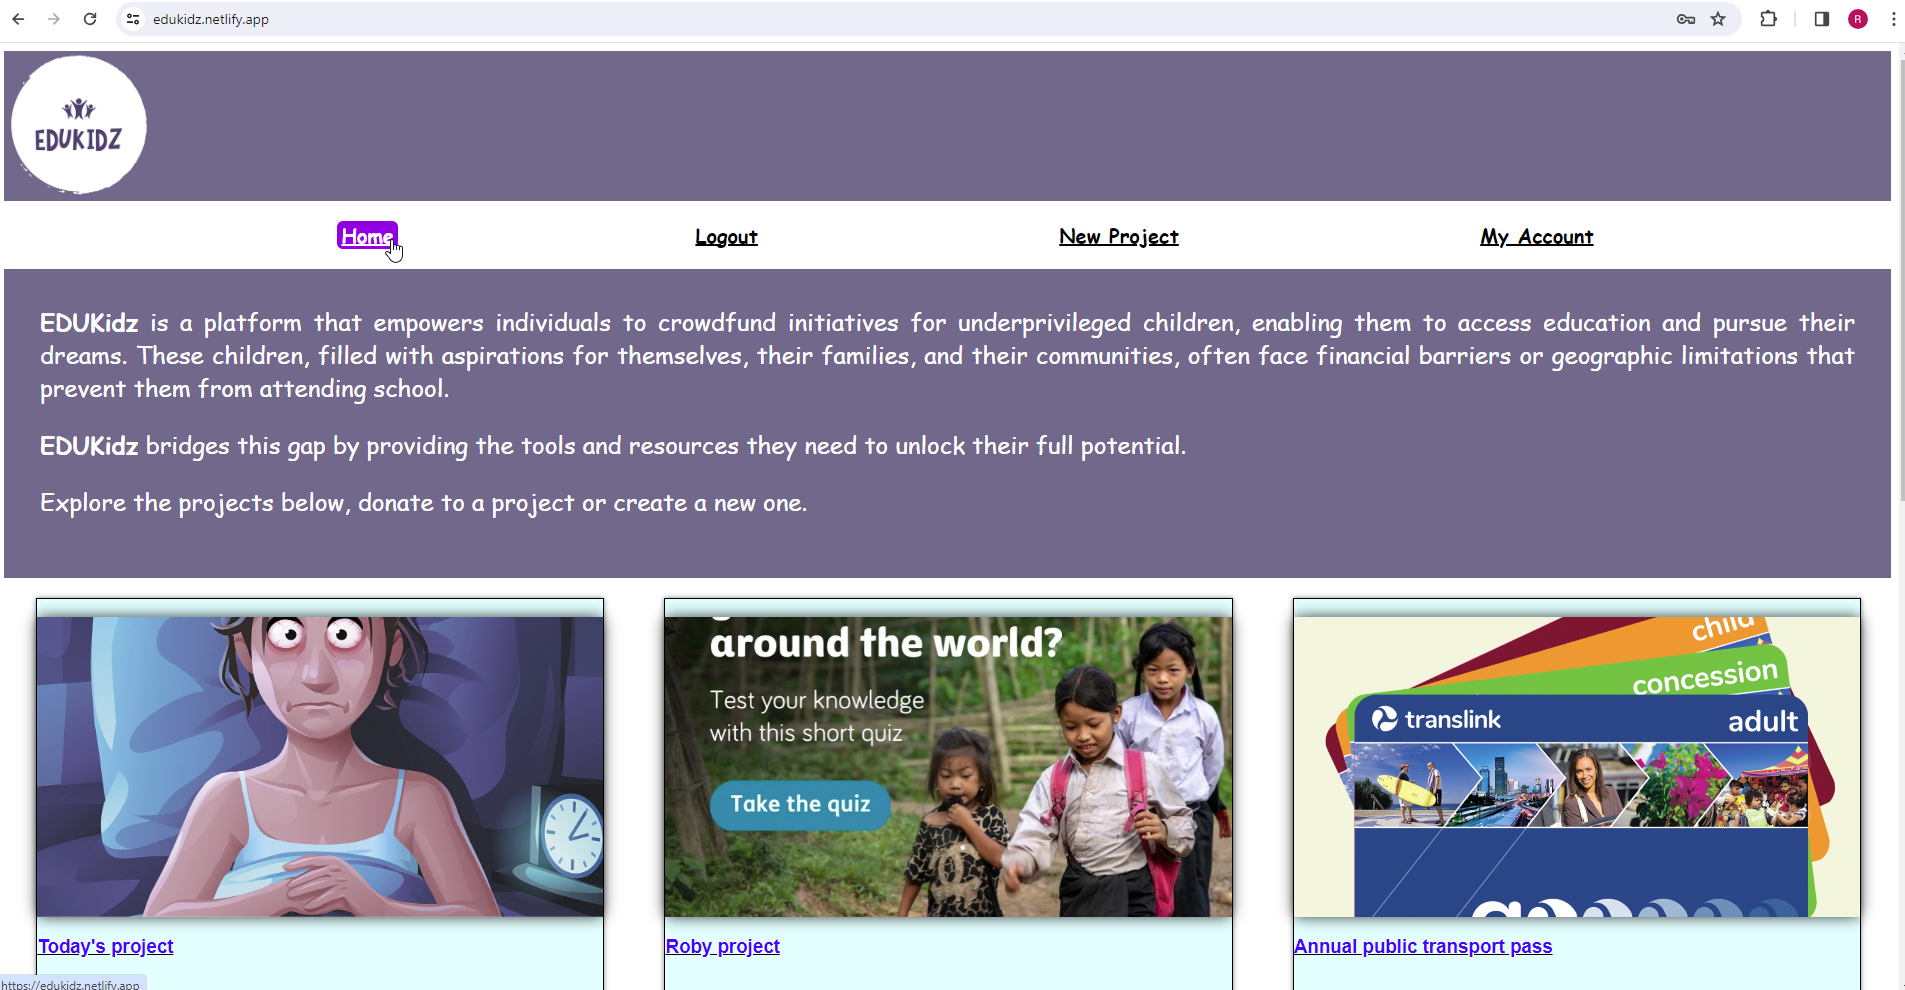
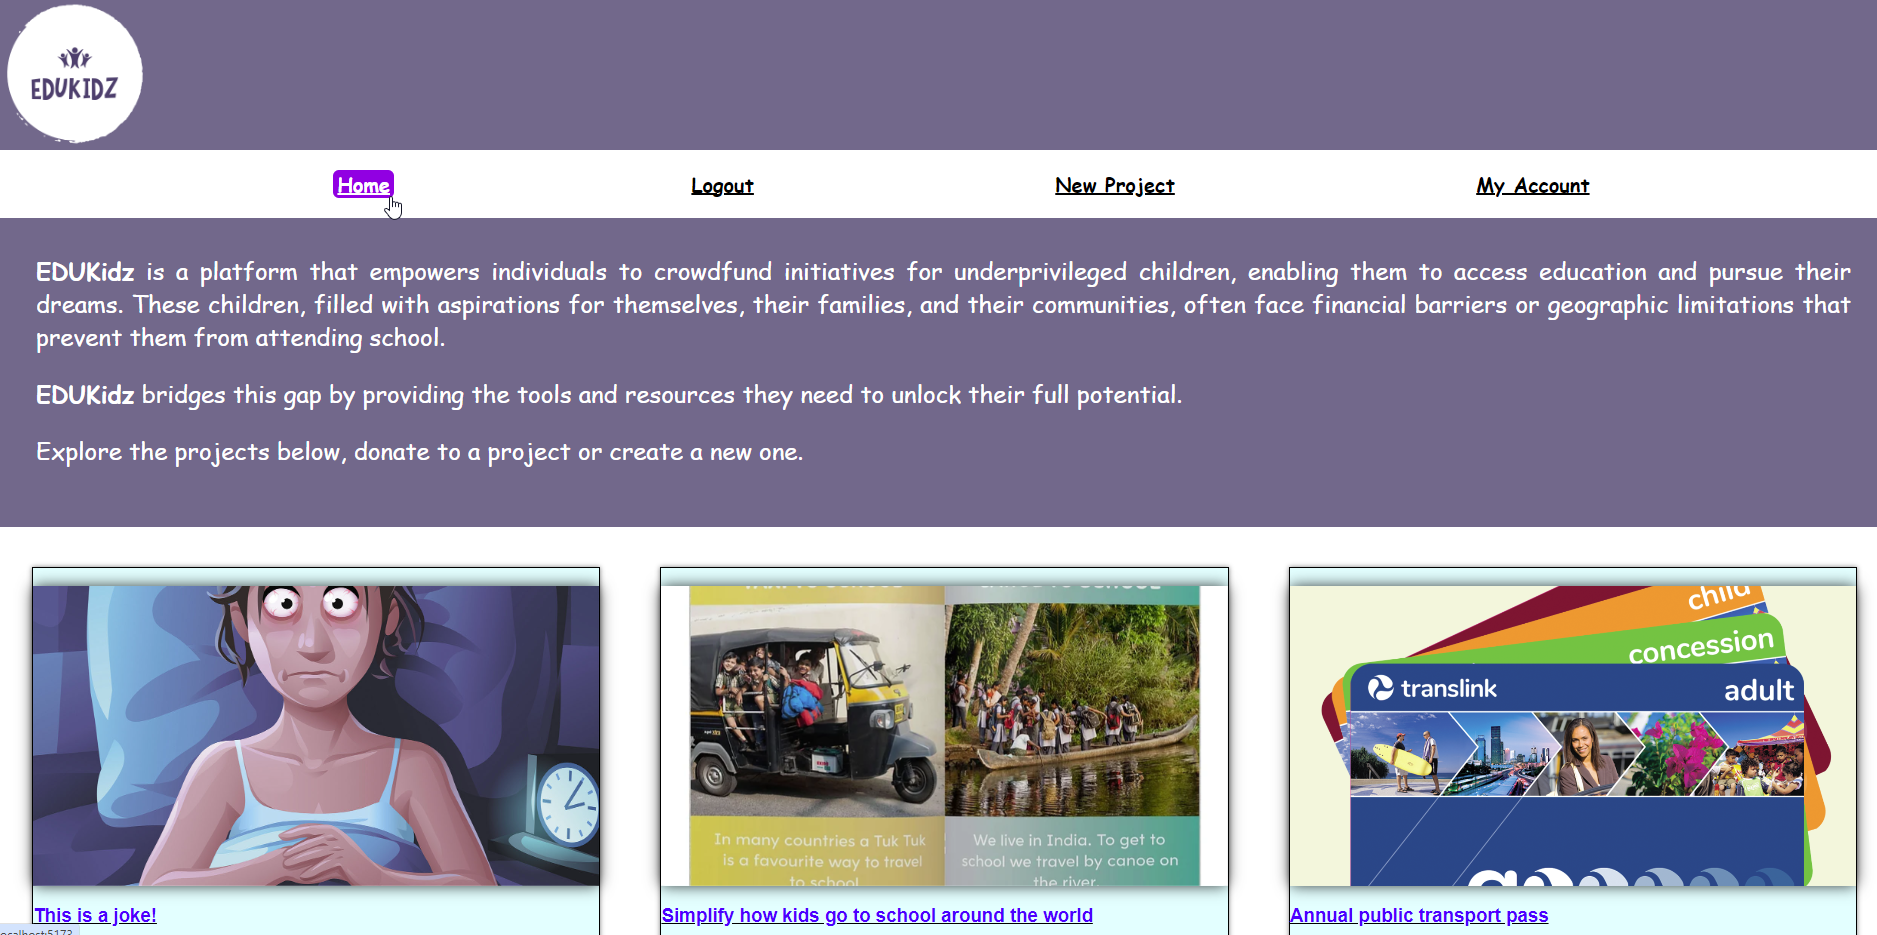
replaced some screenshots

diff --git a/README.md b/README.md
@@ -68,6 +68,9 @@ This crowdfunding project must:
     * [x] Title
     * [x] Owner (a user)
     * [x] Description
+    I added the description on the back of each project card that flips and also on the project page. Sample images in the 'Imges' folder.
+    [GitHub Crowdfunding Repo](https://github.com/RobyOneJ/crowdfunding_front_end/tree/main/src/assets/imges)
+
     * [x] Image
     * [x] Target amount to fundraise
     * [x] Whether it is currently open to accepting new supporters or not
